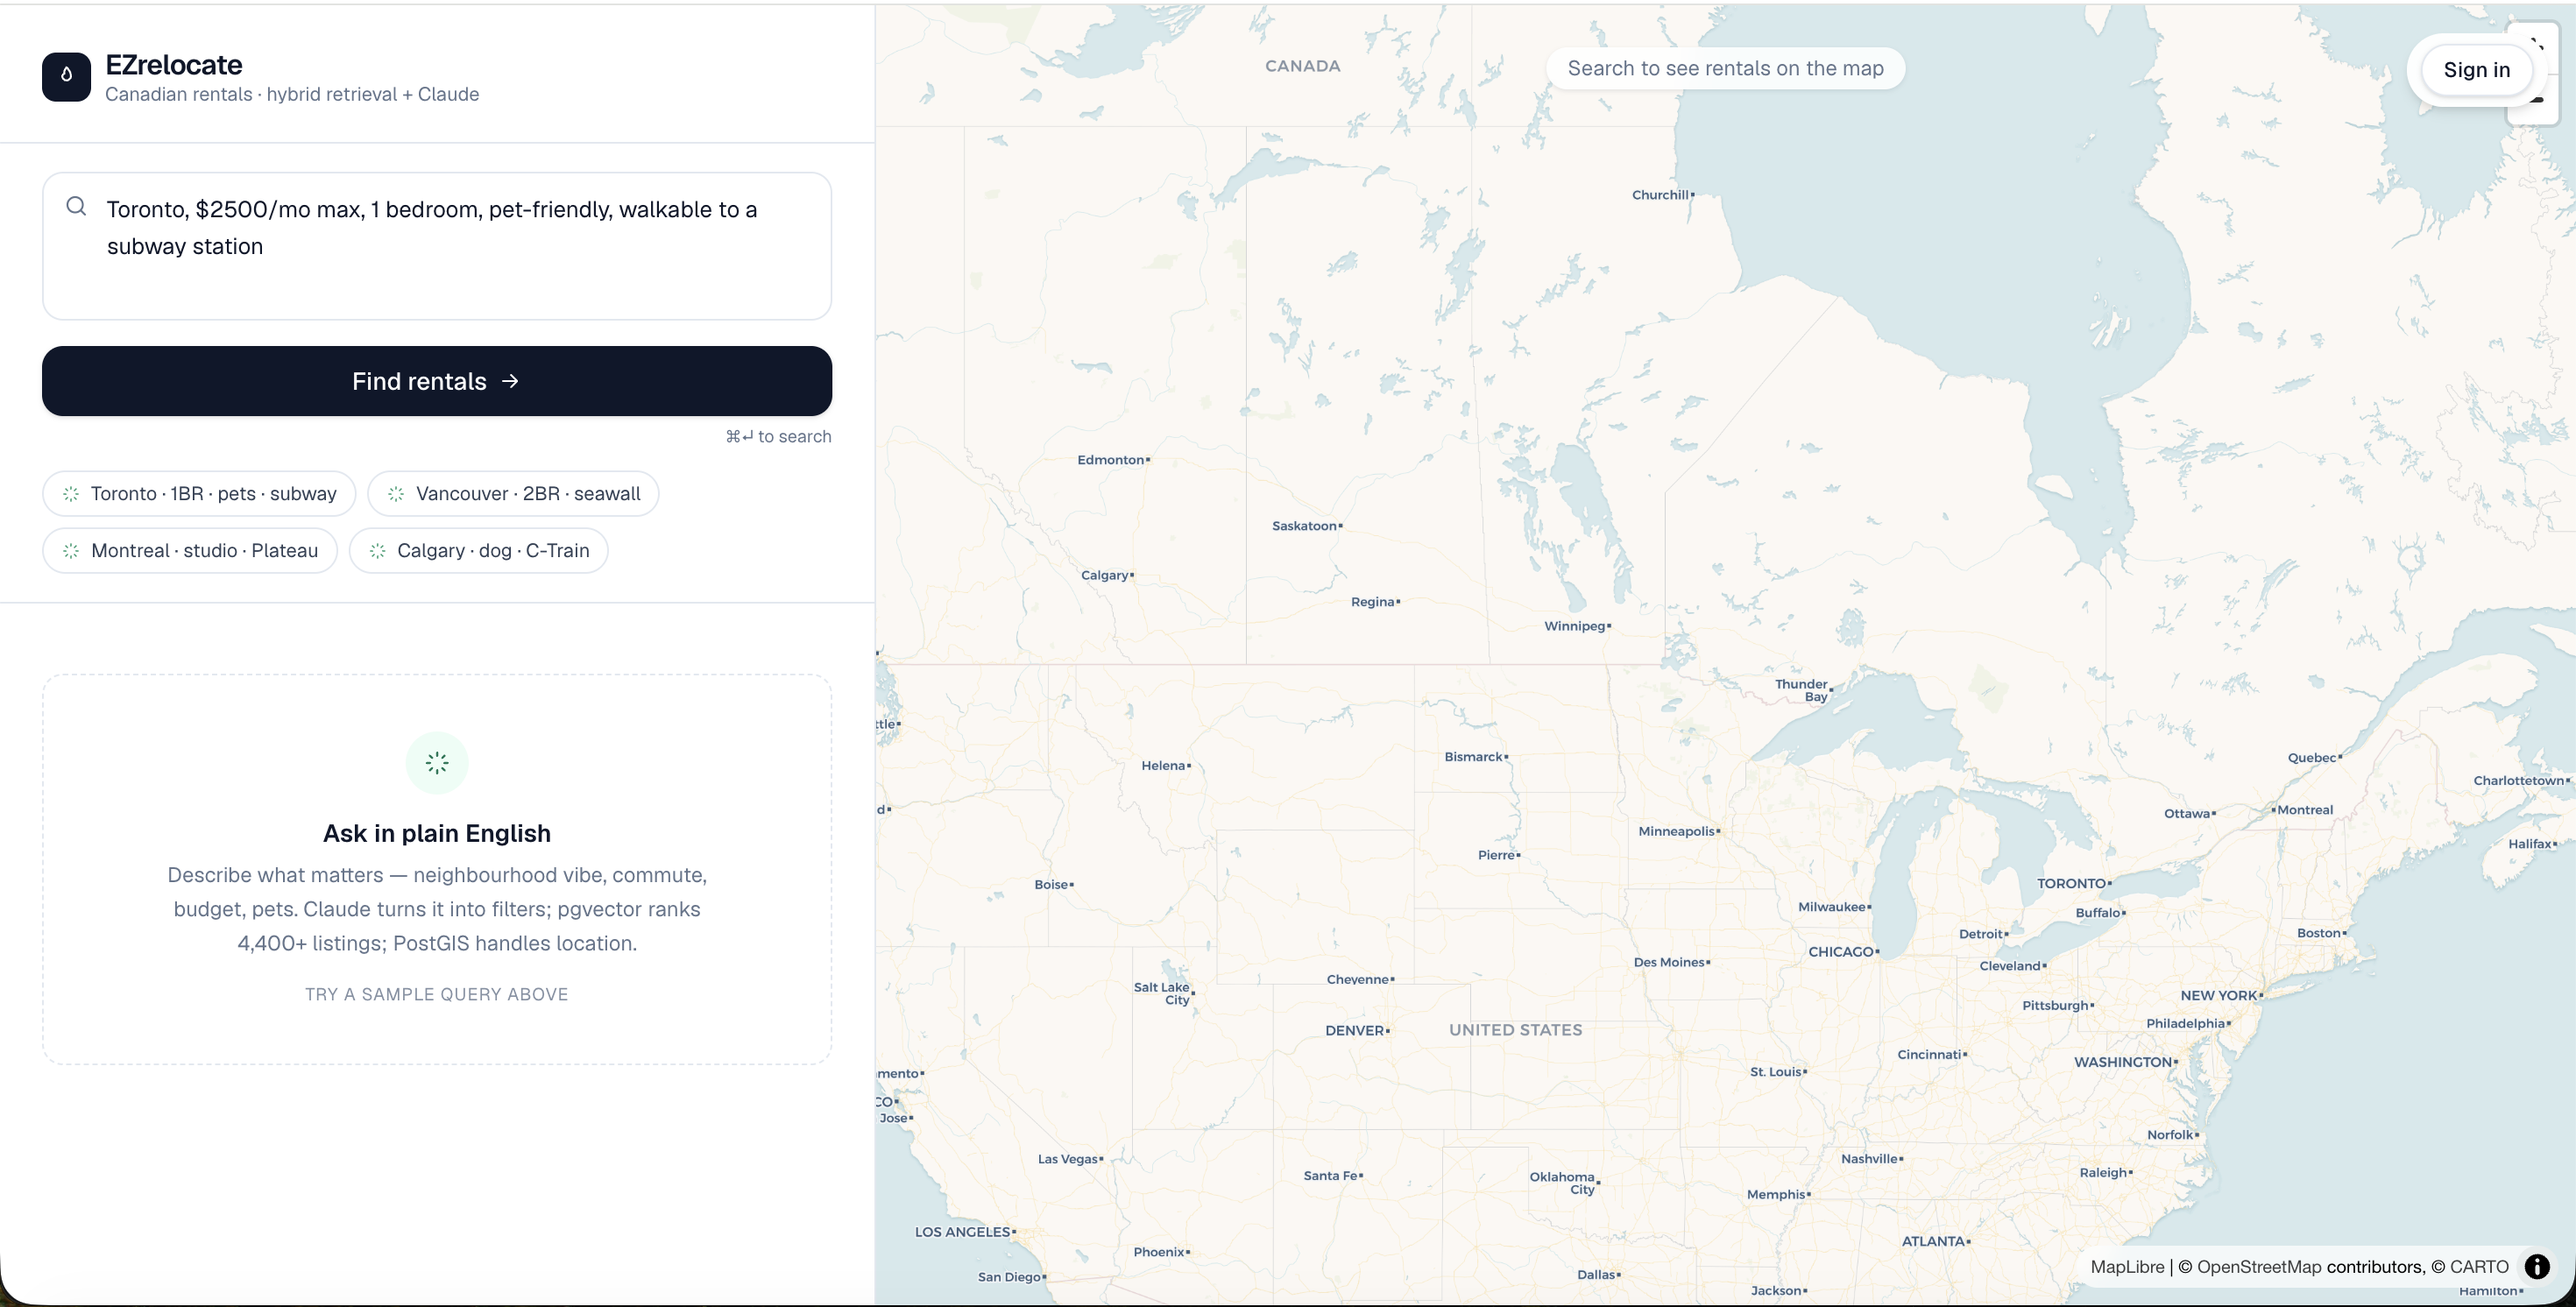
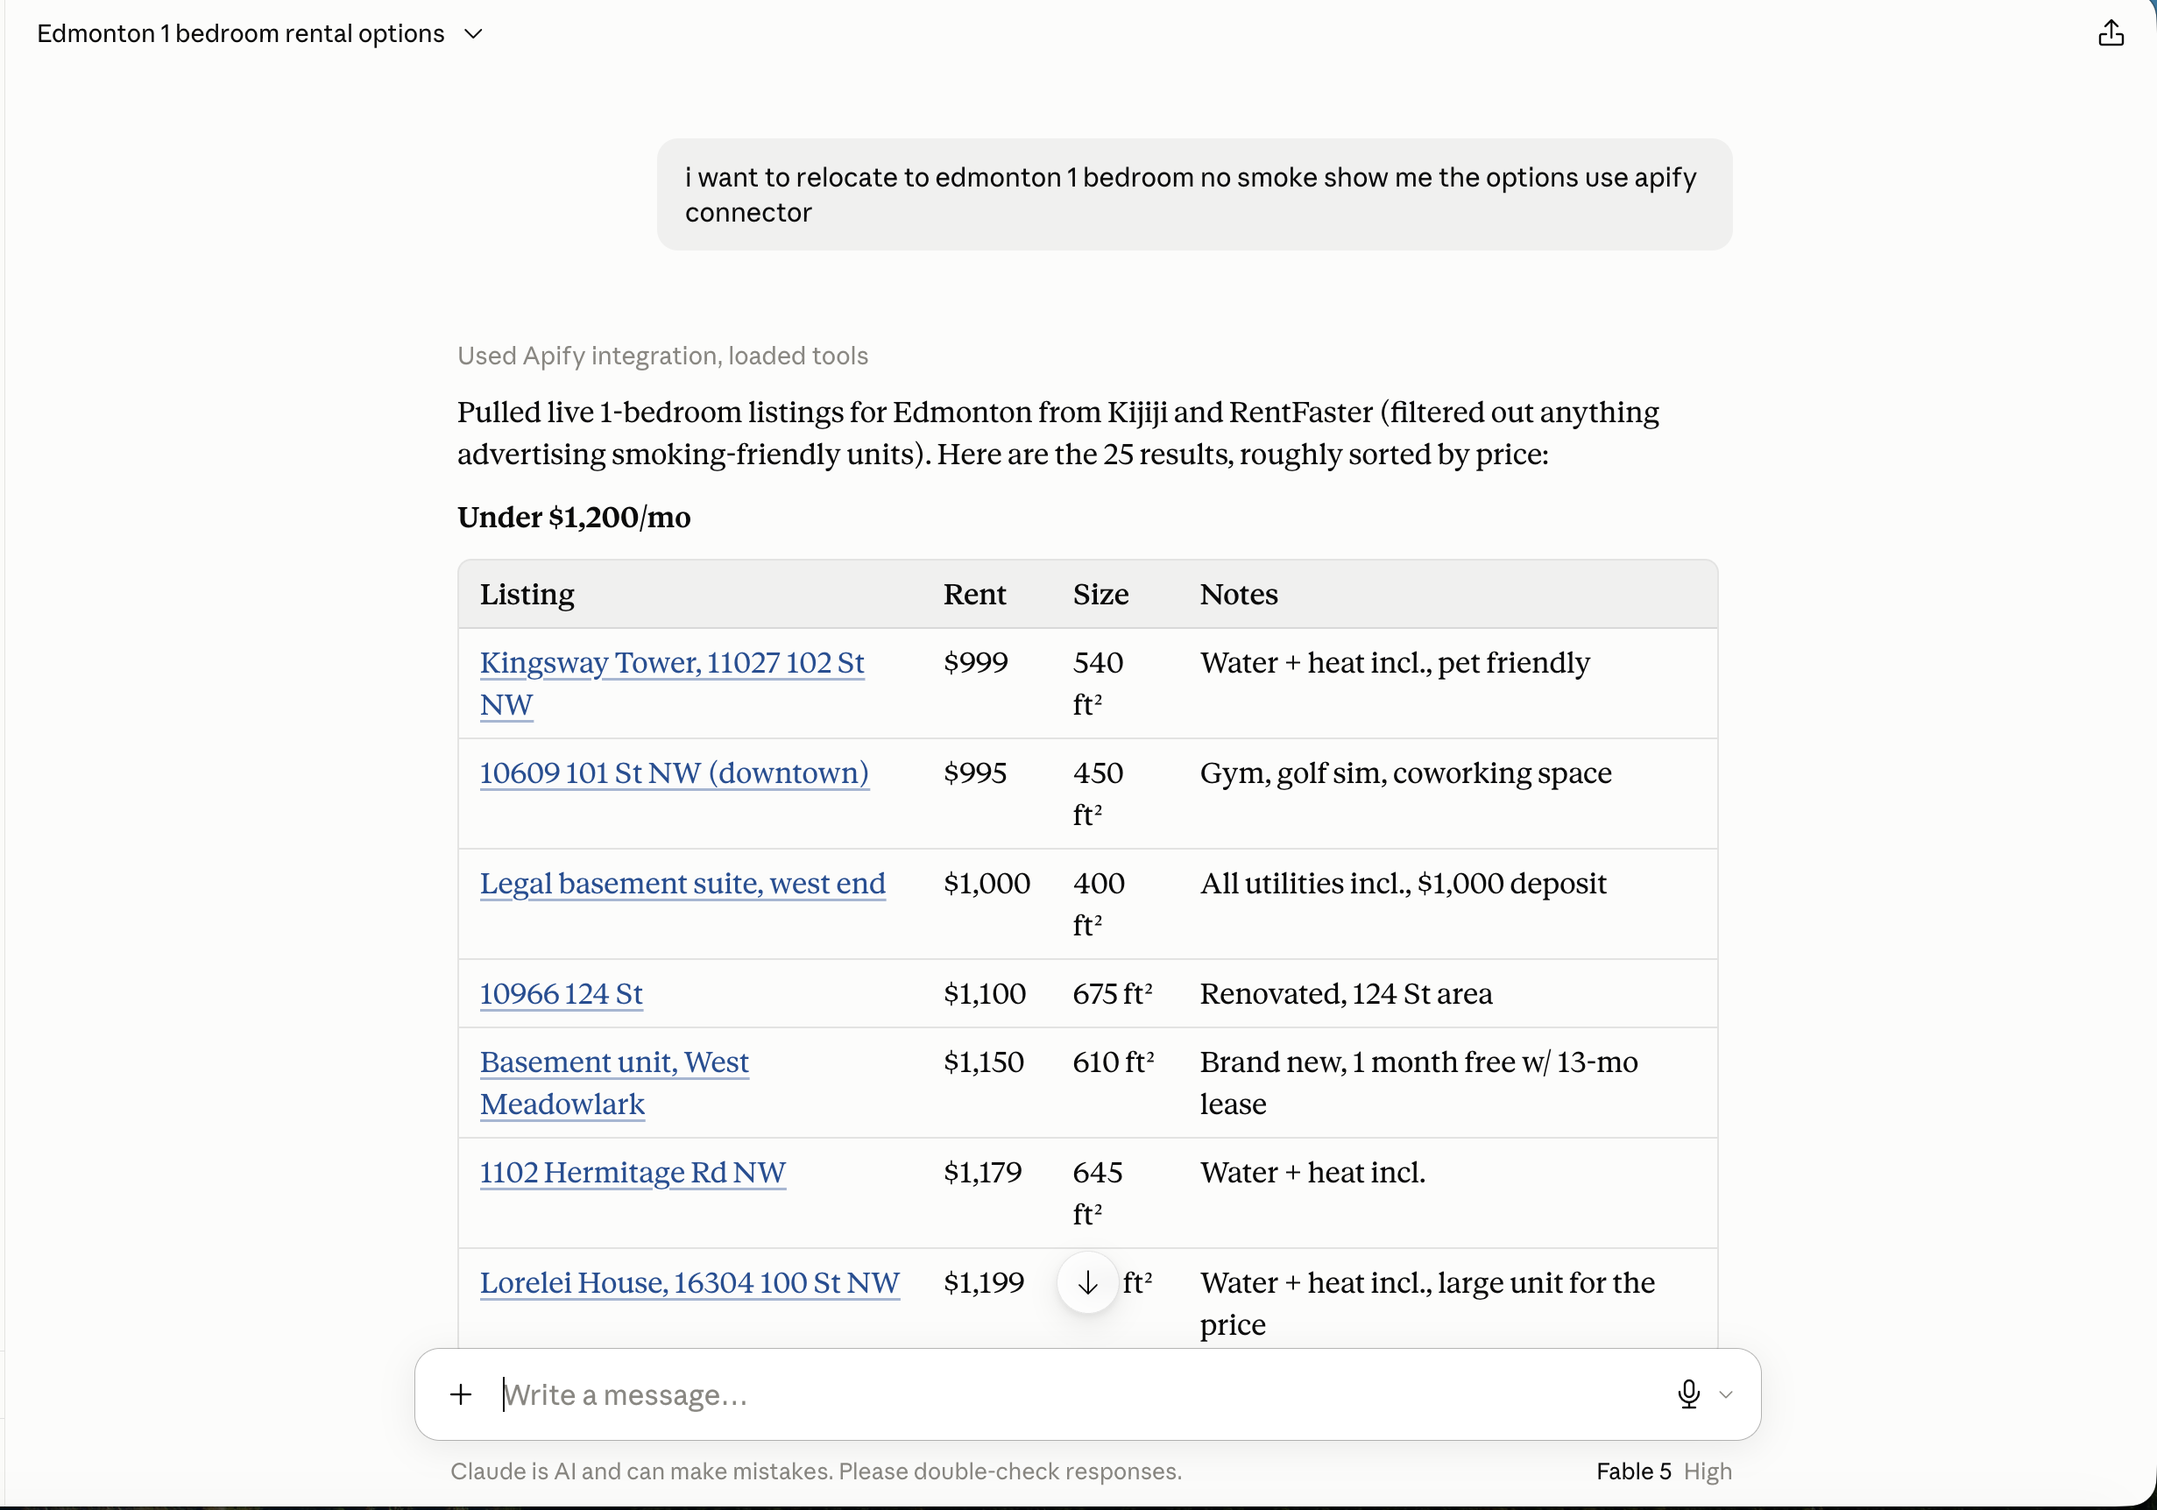
..

diff --git a/app/page.tsx b/app/page.tsx
@@ -31,11 +31,11 @@ const projects = [
     image: '/granted.png',
   },
   {
-    title: 'EZRelocate.org',
+    title: 'Rental Listings Scraper',
     description:
-      'Canada-wide rental search. You describe what you’re looking for in plain English; the system returns real rental listings on a map, with reasoning that cites each pick by id.',
-    link: 'https://ezrelocate.org',
-    tags: ['LLM', 'RAG', 'Map Search', 'Rentals'],
+      'A published Apify Actor (formerly EZrelocate) that pulls rentals from Kijiji and RentFaster in Canada, OpenRent in the UK, and Zumper in the US into one normalized, cross-source deduplicated schema. ~1.9M bundled OpenStreetMap POIs attach nearest-amenity distances to every listing, so “2-bed under $2500 within 800m of a subway” is a server-side filter. MCP-ready, so Claude can run it from a plain-English request and reason over the results.',
+    link: 'https://apify.com/soroush98/rental-listings-scraper',
+    tags: ['Apify Actor', 'Python', 'Web Scraping', 'MCP'],
     image: '/EZrelocate.png',
   },
   {
@@ -51,10 +51,10 @@ const projects = [
 const experience = [
   {
     title: 'Independent AI Engineer',
-    org: 'Self-directed · Edmonton, CA',
+    org: 'Self-directed · Calgary, CA',
     period: 'Jan 2026 to Present',
     details:
-      'Designing and shipping production AI systems end to end — PrimaV2, Granted, and EZrelocate.',
+      'Designing and shipping production AI systems end to end — PrimaV2, Granted, and a multi-country rental-data Actor on the Apify Store.',
     highlights: [
       'Multi-agent LangGraph orchestration on Google Vertex AI.',
       'Hybrid retrieval combining pgvector semantic search, PostGIS geospatial filters, and Postgres full-text search.',
@@ -185,6 +185,14 @@ export default function Home() {
                   and full-stack development (
                   <span className="hl">Next.js, FastAPI, PostgreSQL</span>).
                 </p>
+                <p>
+                  I’m based in <span className="hl">Calgary</span> and{' '}
+                  <span className="accent">available for relocation anywhere in Canada</span>.
+                  Alongside ML and LLM engineering, I’m open to{' '}
+                  <span className="hl">junior IT support and system administrator</span> roles,
+                  backed by networking fundamentals from my MSc research in software-defined
+                  networking and by deploying and supporting my own services in production.
+                </p>
               </div>
               <div className="stat-grid">
                 <div className="stat">
@@ -288,7 +296,11 @@ export default function Home() {
               <div className="section-head-left">
                 <div className="section-tag">07 · Contact</div>
                 <h2>Let’s build something.</h2>
-                <p>Open to ML engineering, LLM/RAG, and full-stack product roles.</p>
+                <p>
+                  Open to ML engineering, LLM/RAG, and full-stack product roles, as well as junior
+                  IT support and system administrator roles. Based in Calgary, available for
+                  relocation anywhere in Canada.
+                </p>
               </div>
               <span className="section-meta">/reach-out</span>
             </div>
@@ -361,7 +373,7 @@ export default function Home() {
           <footer className="footer">
             <div className="footer-brand">
               <span className="nav-dot" aria-hidden />
-              <span>Soroosh Esmaeilian · Edmonton, Canada</span>
+              <span>Soroosh Esmaeilian · Calgary, Canada</span>
             </div>
             <div className="footer-links">
               <a href="#top">Back to top</a>

diff --git a/components/Hero.tsx b/components/Hero.tsx
@@ -6,7 +6,7 @@ export default function Hero() {
       <div className="hero-copy">
         <div className="hero-eyebrow">
           <span className="dot" aria-hidden />
-          Open to ML / LLM engineering roles
+          Open to ML / LLM engineering &amp; IT roles
         </div>
         <h1>
           ML Engineer <span className="grad">shipping production LLMs &amp; RAG</span>.
@@ -16,7 +16,9 @@ export default function Hero() {
           MSc from the University of Calgary. I build, deploy, and support{' '}
           <span className="hl">production LLM applications and agent-based systems</span>, drawing
           on industrial experience shipping multi-task learning anomaly detection on enterprise IoT
-          gateways.
+          gateways. Based in <span className="hl">Calgary</span> and{' '}
+          <span className="hl">available for relocation anywhere in Canada</span> — also open to
+          junior IT support and system administrator roles.
         </p>
         <div className="hero-ctas">
           <a href="#work" className="btn btn-primary">
@@ -53,7 +55,7 @@ export default function Hero() {
             >
               <path d="M12 2C8 6 6 9 6 13a6 6 0 0 0 12 0c0-4-2-7-6-11z" />
             </svg>
-            Edmonton, Canada
+            Calgary, Canada
           </span>
           <span className="hero-meta-item">
             <svg
@@ -107,7 +109,11 @@ export default function Hero() {
         </div>
         <div className="profile-row">
           <span className="k">Location</span>
-          <span className="v">Edmonton, CA</span>
+          <span className="v">Calgary, CA</span>
+        </div>
+        <div className="profile-row">
+          <span className="k">Relocation</span>
+          <span className="v">Anywhere in Canada</span>
         </div>
         <div className="profile-row">
           <span className="k">Education</span>
@@ -124,6 +130,10 @@ export default function Hero() {
         <div className="profile-row">
           <span className="k">Status</span>
           <span className="v accent">Open to roles</span>
+        </div>
+        <div className="profile-row">
+          <span className="k">Also open to</span>
+          <span className="v">IT support · SysAdmin</span>
         </div>
         <div className="profile-tags">
           <span className="profile-tag">claude-api</span>

diff --git a/app/layout.tsx b/app/layout.tsx
@@ -20,15 +20,19 @@ const inter = Inter({
 export const metadata: Metadata = {
   title: 'Soroosh Esmaeilian · ML Engineer · LLMs · RAG',
   description:
-    'Machine Learning Engineer building production LLM and RAG systems. MSc, University of Calgary.',
+    'Machine Learning Engineer building production LLM and RAG systems. MSc, University of Calgary. Based in Calgary — open to relocation anywhere in Canada.',
 };
 
 // Static export to GitHub Pages can't set HTTP response headers, so the
 // Content-Security-Policy is declared as a meta tag. 'unsafe-inline' for
 // scripts/styles is required by Next.js' inline runtime and the GA4 snippet.
+// React's development build additionally needs 'unsafe-eval' (source-mapped
+// stacks, Fast Refresh); the production build never evals, so it stays out.
+const devEval = process.env.NODE_ENV === 'production' ? '' : " 'unsafe-eval'";
+
 const csp = [
   "default-src 'self'",
-  "script-src 'self' 'unsafe-inline' https://www.googletagmanager.com",
+  `script-src 'self' 'unsafe-inline'${devEval} https://www.googletagmanager.com`,
   "style-src 'self' 'unsafe-inline'",
   "img-src 'self' data: https://www.googletagmanager.com https://*.google-analytics.com",
   "font-src 'self'",

diff --git a/README.md b/README.md
@@ -1,6 +1,6 @@
 ## Soroosh Esmaeilian
 
-ML Engineer based in Edmonton, Canada. MSc, Computer Science (University of Calgary).
+ML Engineer based in Calgary, Canada, available for relocation anywhere in Canada. MSc, Computer Science (University of Calgary).
 
 Currently investigating LLMs and RAG systems. Background in PyTorch, anomaly detection on IoT edge, and SDN research.
 
